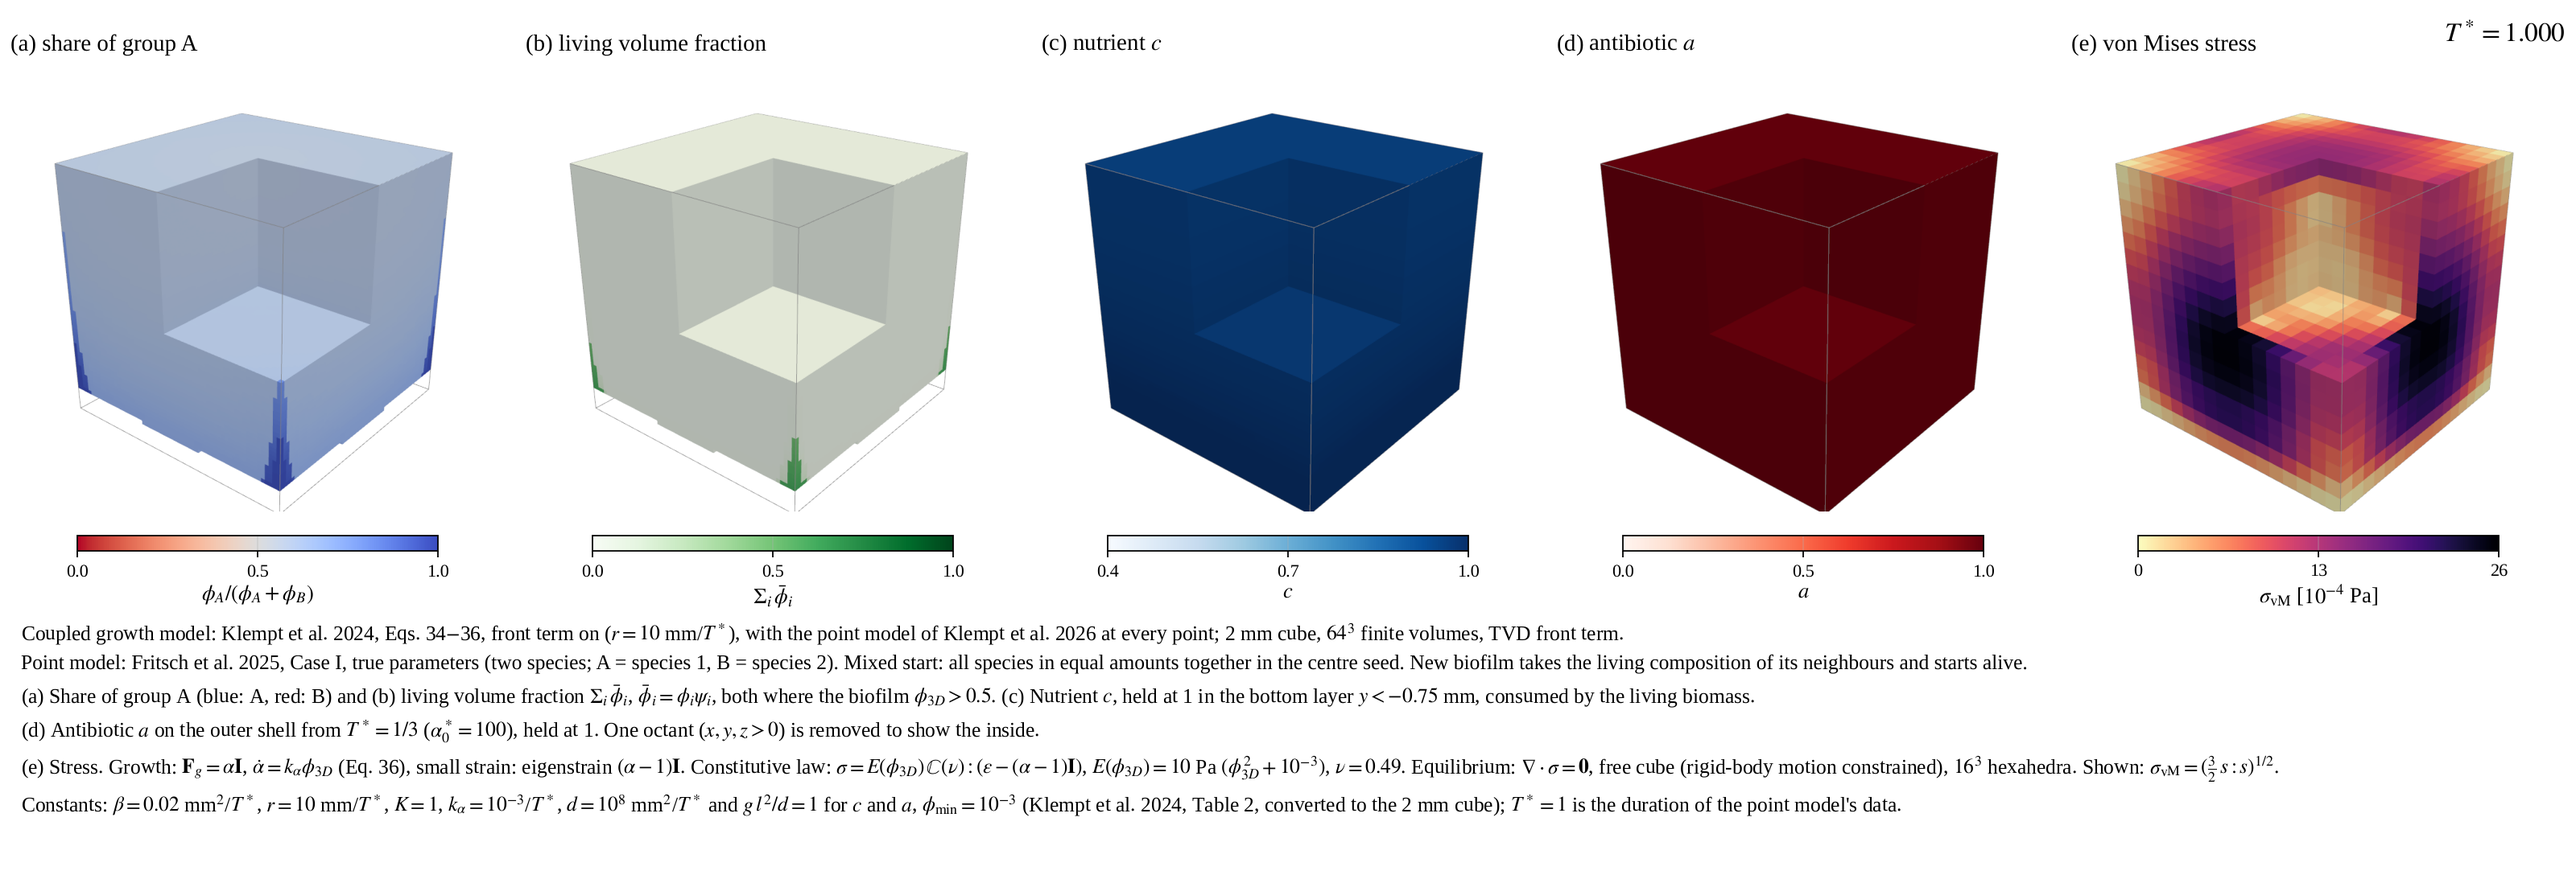
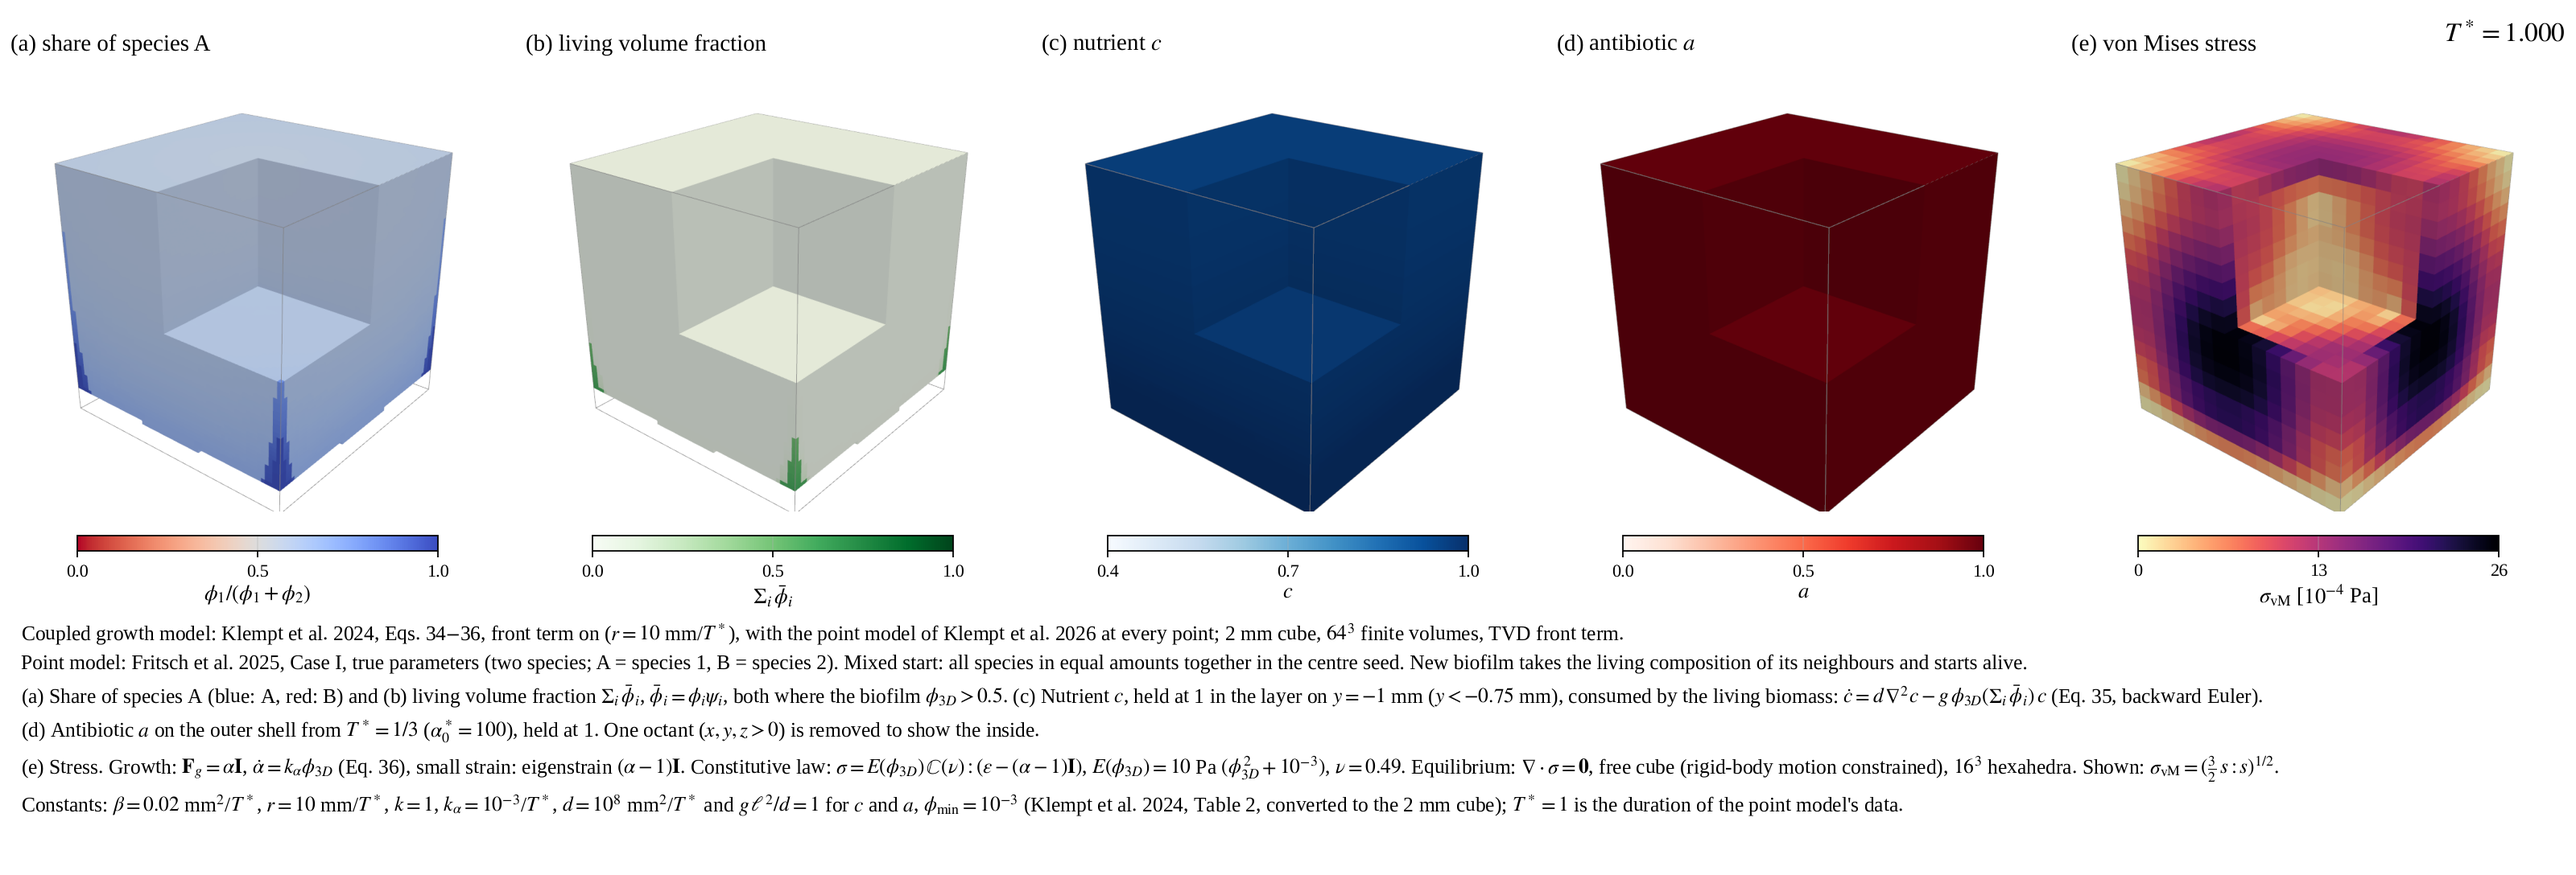
Videos: notation of the thesis (species, phi_1/(phi_1+phi_2), k, Eq. 35)

diff --git a/ansys_usermat/apdl/anim_coupled_tvd_3d.py b/ansys_usermat/apdl/anim_coupled_tvd_3d.py
@@ -53,14 +53,16 @@ CAM = [(3.6, 2.6, 4.4), (0, 0, 0), (0, 1, 0)]
 # field, mesh, colour map, range, title, colour-bar label; mesh: "bio" phi_3D > 0.5, "living" bio and sum phibar > 0.01,
 # "cube" all, "ab" a > 0.01, "stress" the stress mesh (values near 0 are left out, i.e. transparent)
 GROUP = "species 1, 2" if K26C4 else "species 1"
-PANELS = [("shareA", "bio", "coolwarm_r", (0, 1), r"(a) share of group A", r"$\phi_A/(\phi_A+\phi_B)$"),
+GRP = "group" if K26C4 else "species"     # two species: the notation of the thesis and the slides, phi_1/(phi_1+phi_2)
+PANELS = [("shareA", "bio", "coolwarm_r", (0, 1), rf"(a) share of {GRP} A",
+           r"$\phi_A/(\phi_A+\phi_B)$" if K26C4 else r"$\phi_1/(\phi_1+\phi_2)$"),
           ("L", "living", "Greens", (0, 1), r"(b) living volume fraction", r"$\Sigma_i\,\bar\phi_i$"),
           ("c", "cube", "Blues", (0.4, 1), r"(c) nutrient $c$", r"$c$"),
           ("a", "ab", "Reds", (0, 1), r"(d) antibiotic $a$", r"$a$"),
           ("vm", "stress", "magma_r", (0, VMAX), r"(e) von Mises stress", r"$\sigma_\mathrm{vM}$ [$10^{-4}$ Pa]")]
 B_WHERE = r"four small blocks at the edges along $z$ ($|x|, |y| > 0.75$ mm)"
 if CASE.startswith("separate"):
-    START = rf"Separate start: group A in the centre seed, group B in {B_WHERE}. "
+    START = rf"Separate start: {GRP} A in the centre seed, {GRP} B in {B_WHERE}. "
 else:
     START = r"Mixed start: all species in equal amounts together in the centre seed. "
 START += (r"New biofilm takes the living composition of its neighbours and starts alive." if INHLIV else
@@ -77,9 +79,9 @@ CAPTION = "\n".join([
     r"Klempt et al. 2026 at every point; 2 mm cube, $64^3$ finite volumes, TVD front term"
     + (r", coupling step $\Delta T^* = 0.0025$." if FINE else "."),
     r"Point model: " + MODEL + ". " + START,
-    r"(a) Share of group A (blue: A, red: B) and (b) living volume fraction $\Sigma_i\,\bar\phi_i$, $\bar\phi_i=\phi_i\psi_i$, "
-    r"both where the biofilm $\phi_{3D} > 0.5$. (c) Nutrient $c$, held at 1 in the bottom layer $y < -0.75$ mm, "
-    r"consumed by the living biomass.",
+    rf"(a) Share of {GRP} A (blue: A, red: B) and (b) living volume fraction $\Sigma_i\,\bar\phi_i$, $\bar\phi_i=\phi_i\psi_i$, "
+    r"both where the biofilm $\phi_{3D} > 0.5$. (c) Nutrient $c$, held at 1 in the layer on $y = -1$ mm ($y < -0.75$ mm), "
+    r"consumed by the living biomass: $\dot c = d\,\nabla^2 c - g\,\phi_{3D}(\Sigma_i\,\bar\phi_i)\,c$ (Eq. 35, backward Euler).",
     r"(d) Antibiotic $a$ on the outer shell from $T^* = 1/3$ ($\alpha^*_0 = 100$), " + AB + r". "
     r"One octant ($x, y, z > 0$) is removed to show the inside.",
     r"(e) Stress. Growth: $\mathbf{F}_g = \alpha\mathbf{I}$, $\dot\alpha = k_\alpha\phi_{3D}$ (Eq. 36), small strain: eigenstrain "
@@ -89,8 +91,8 @@ CAPTION = "\n".join([
     + ("\n" + r"Growth follows all biomass $\phi_{3D}$, dead included, so the stress keeps rising after the antibiotic."
        if FINE else "")
     + (r" Grey: four rigid columns (Klempt et al. 2024, Sect. 4.3), no biofilm and no flux in them." if OBST else ""),
-    r"Constants: $\beta = 0.02$ mm$^2$/$T^*$, $r = 10$ mm/$T^*$, $K = 1$, $k_\alpha = 10^{-3}$/$T^*$, "
-    r"$d = 10^8$ mm$^2$/$T^*$ and $g\,l^2/d = 1$ for $c$ and $a$, $\phi_{\min} = 10^{-3}$ (Klempt et al. 2024, Table 2, "
+    r"Constants: $\beta = 0.02$ mm$^2$/$T^*$, $r = 10$ mm/$T^*$, $k = 1$, $k_\alpha = 10^{-3}$/$T^*$, "
+    r"$d = 10^8$ mm$^2$/$T^*$ and $g\,\ell^2/d = 1$ for $c$ and $a$, $\phi_{\min} = 10^{-3}$ (Klempt et al. 2024, Table 2, "
     r"converted to the 2 mm cube); $T^* = 1$ is the duration of the point model's data."])
 
 
